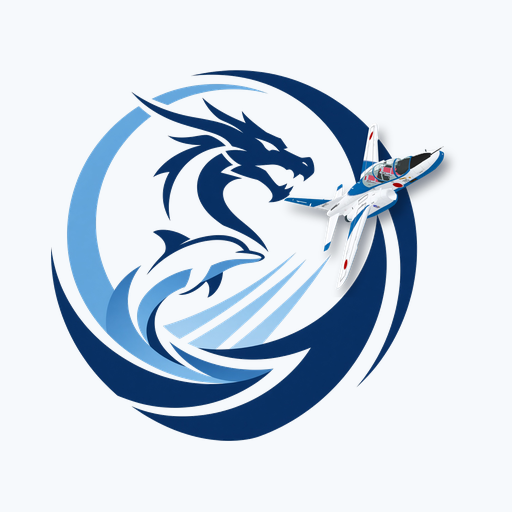
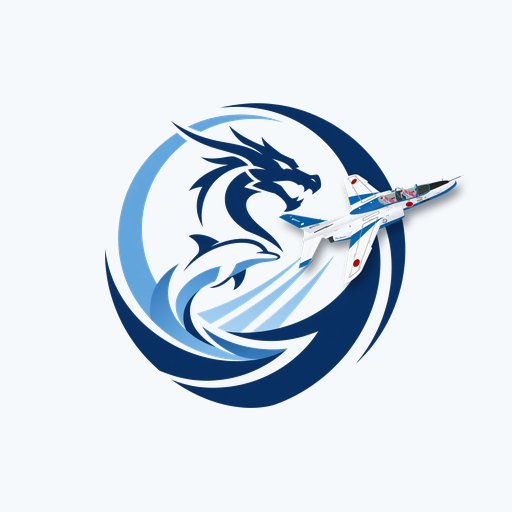
画面下に版と著作権の固定表示、メニューにお知らせ（新着で赤い点）と購入の復元、アプリアイコンの紋章を中央にそろえ直し

Changed region(s): [[0.0938, 0.125, 0.9062, 0.875]]

diff --git a/index.html b/index.html
@@ -75,7 +75,7 @@ svg text{user-select:none}
 .updbtn.has::after{content:"";position:absolute;top:.5rem;right:.5rem;width:.5rem;height:.5rem;border-radius:50%;background:var(--bad);box-shadow:0 0 0 .125rem var(--bg)}
 .updbtn.busy .ic{animation:spin 1s linear infinite}
 @keyframes spin{to{transform:rotate(360deg)}}
-.toast{position:fixed;left:50%;bottom:max(1.25rem,env(safe-area-inset-bottom));transform:translateX(-50%);background:var(--panel2);color:var(--text);border:1px solid var(--line2);border-radius:.75rem;padding:.625rem 1rem;font-size:.8125rem;font-weight:700;box-shadow:0 .5rem 1.5rem rgba(0,0,0,.4);z-index:40;white-space:nowrap}
+.toast{position:fixed;left:50%;bottom:calc(max(1.25rem,env(safe-area-inset-bottom)) + 1.25rem);transform:translateX(-50%);background:var(--panel2);color:var(--text);border:1px solid var(--line2);border-radius:.75rem;padding:.625rem 1rem;font-size:.8125rem;font-weight:700;box-shadow:0 .5rem 1.5rem rgba(0,0,0,.4);z-index:40;white-space:nowrap}
 .menu{position:relative;flex:none}
 .menubtn{width:2.75rem;height:2.75rem;display:flex;align-items:center;justify-content:center;border-radius:.625rem;color:var(--accent)}
 @media (hover:hover){.menubtn:hover{background:var(--panel)}}
@@ -83,6 +83,23 @@ svg text{user-select:none}
 .menulist{position:absolute;right:0;top:3rem;min-width:11rem;background:var(--panel2);border:1px solid var(--line2);border-radius:.75rem;padding:.375rem;box-shadow:0 1rem 2rem rgba(0,0,0,.5);z-index:20;display:flex;flex-direction:column}
 .menulist button{text-align:left;padding:.75rem .875rem;border-radius:.5rem;font-size:.875rem;font-weight:700}
 .menulist button:hover{background:var(--panel)}
+.menulist button{display:flex;align-items:center;gap:.5rem}
+.menulist .dot{width:.5rem;height:.5rem;border-radius:50%;background:var(--bad);flex:none}
+.menubtn.has{position:relative}
+.menubtn.has::after{content:"";position:absolute;top:.5rem;right:.5rem;width:.5rem;height:.5rem;border-radius:50%;background:var(--bad);box-shadow:0 0 0 .125rem var(--bg)}
+/* 画面下の固定表示: 左に版、右に著作権 */
+.foot{position:fixed;left:0;right:0;bottom:0;display:flex;justify-content:space-between;align-items:center;gap:1rem;
+  padding:.25rem 1rem calc(.25rem + env(safe-area-inset-bottom));font-family:var(--mono);font-size:.625rem;letter-spacing:.04em;color:var(--faint);
+  background:linear-gradient(180deg,transparent,var(--bg) 45%);pointer-events:none;z-index:15}
+/* お知らせ */
+.news{display:flex;flex-direction:column;gap:.75rem;margin-top:.75rem}
+.news .it{border:1px solid var(--line);border-radius:.75rem;padding:.75rem .875rem;background:var(--panel2)}
+.news .hd{display:flex;align-items:center;gap:.5rem;flex-wrap:wrap}
+.news .tag{font-family:var(--mono);font-size:.625rem;font-weight:700;border-radius:.375rem;padding:0 .375rem;border:1px solid var(--line2);color:var(--muted)}
+.news .tag.notice{color:var(--accent);border-color:var(--accent)}
+.news .dt{font-family:var(--mono);font-size:.6875rem;color:var(--faint)}
+.news .t{font-size:.875rem;font-weight:700;margin-top:.25rem}
+.news .b{font-size:.8125rem;line-height:1.7;color:var(--muted);margin-top:.25rem}
 .sub{display:none;font-size:.75rem;color:var(--muted);margin-top:.25rem}
 @media (display-mode:standalone){.sub{display:block}}
 .stats{display:grid;grid-template-columns:repeat(5,1fr);gap:.375rem;margin-top:.625rem}
@@ -344,7 +361,7 @@ body[data-scene="night"]{--d14bg:#1b2434;--ck-sky:#0a1330;--ck-earth:#1e1812;--c
 .h3row{display:flex;justify-content:space-between;align-items:center}
 
 /* インストール案内 */
-.install{display:none;position:fixed;left:1rem;right:1rem;bottom:max(.75rem,env(safe-area-inset-bottom));background:var(--panel2);border:1px solid var(--line2);border-radius:1rem;padding:.875rem 1rem;
+.install{display:none;position:fixed;left:1rem;right:1rem;bottom:calc(max(.75rem,env(safe-area-inset-bottom)) + 1.25rem);background:var(--panel2);border:1px solid var(--line2);border-radius:1rem;padding:.875rem 1rem;
   grid-template-columns:2.5rem 1fr auto;gap:.75rem;align-items:center;box-shadow:0 1rem 2rem rgba(0,0,0,.5);z-index:10;max-width:40rem;margin:0 auto}
 .install.show{display:grid}
 .install img{width:2.5rem;height:2.5rem;border-radius:.625rem;display:block}
@@ -447,7 +464,7 @@ body:not([data-view="train"]) .stats{display:none}
 /* ===== スマホ幅: ホームと訓練画面を 1 画面に収める =====
    画面全体を縦の flex にし、図（機体画像・上面図・視界）だけを伸縮させる。極端に低い画面では図の最小高さを優先して少しだけスクロールする */
 @media (max-width:63.99rem){
-  body[data-view="home"],body[data-view="train"]{height:100vh;height:100dvh;display:flex;flex-direction:column;padding-bottom:max(.5rem,env(safe-area-inset-bottom))}
+  body[data-view="home"],body[data-view="train"]{height:100vh;height:100dvh;display:flex;flex-direction:column;padding-bottom:calc(max(.5rem,env(safe-area-inset-bottom)) + 1rem)}
   body[data-view="home"] .app,body[data-view="train"] .app{flex:1;min-height:0;display:flex;flex-direction:column;width:100%}
   #view-home:not([hidden]),#view-train:not([hidden]){flex:1;min-height:0;display:flex;flex-direction:column}
   /* ホーム: 機体の絵だけ縮む */
@@ -601,8 +618,10 @@ body:not([data-view="train"]) .stats{display:none}
         <div class="menu">
           <button class="menubtn" id="menuBtn" aria-haspopup="true" aria-expanded="false" aria-label="メニュー"><svg viewBox="0 0 24 24" class="ic"><path d="M4 7h16M4 12h16M4 17h16"/></svg></button>
           <div class="menulist" id="menuList" hidden>
+            <button data-go="news">お知らせ<span class="dot" id="newsDot" hidden></span></button>
             <button data-go="settings">設定</button>
             <button data-go="about">アプリの説明</button>
+            <button data-act="restore">購入を復元</button>
             <button data-go="buy">全機能版について</button>
           </div>
         </div>
@@ -676,6 +695,10 @@ body:not([data-view="train"]) .stats{display:none}
     </div>
   </section>
 
+  <section id="view-news" hidden>
+    <div class="about"><div class="card" id="newsPage"></div></div>
+  </section>
+
   <section id="view-buy" hidden>
     <div class="about"><div class="card" id="buyPage"></div></div>
   </section>
@@ -725,6 +748,7 @@ body:not([data-view="train"]) .stats{display:none}
   </div>
 </div>
 
+<footer class="foot"><span id="footVer"></span><span>© 2026 AMATERAS</span></footer>
 <div class="toast" id="toast" hidden></div>
 <div class="install" id="install">
   <img src="icons/icon-192.png" alt="">
@@ -764,7 +788,7 @@ const PLAY_URL='https://play.google.com/store/apps/details?id=com.amaterasuvocab
 const DEMO={modes:['heading'],qCount:10};
 /* DEMO_ON: Web 版を体験版にする切り替え。有償配信（Google Play / App Store）が始まるまでは false のままにし、全員が全機能を使える */
 const DEMO_ON=false;
-const APP_VER='v63';   // 表示用の版。sw.js の CACHE と合わせる
+const APP_VER='v64';   // 表示用の版。sw.js の CACHE と合わせる
 let edition=DEMO_ON?store.get('edition','demo'):'full';
 const isFull=()=>edition==='full';
 const qMax=()=>{const c=MS().qCount;return isFull()?c:(c>0?Math.min(c,DEMO.qCount):DEMO.qCount)};   // 体験版は 10 問まで
@@ -1180,9 +1204,46 @@ function renderHome(){
   $('#modeCards').querySelectorAll('[data-mode]').forEach(b=>b.addEventListener('click',()=>{location.hash=lock(b.dataset.mode)?'#buy':'#train/'+b.dataset.mode}));
   $('#modeCards').querySelectorAll('[data-go2]').forEach(b=>b.addEventListener('click',()=>{location.hash='#'+b.dataset.go2}));
 }
+/* お知らせ: news.json（利用者が送るお知らせと、版ごとの更新情報）。新しいお知らせが届いたらメニューボタンに赤い点を出し、メニューを開いたら消す */
+let newsItems=null,latestNotice=null;
+async function loadNews(){
+  if(newsItems)return newsItems;
+  const get=async o=>{const r=await fetch('news.json',o);if(!r.ok)throw 0;return r.json()};
+  let d=null;
+  try{d=await get({cache:'no-store'})}catch(e){try{d=await get({})}catch(e2){d=null}}
+  const list=(d&&Array.isArray(d.items)?d.items:[]).slice().sort((a,b)=>String(b.date).localeCompare(String(a.date))||String(b.id).localeCompare(String(a.id)));
+  if(d)newsItems=list;   // 読めなかったときは覚えない（次に開いたときにもう一度試す）
+  return list;
+}
+async function checkNews(){
+  const items=await loadNews();const n=items.find(i=>i.type==='notice');if(!n)return;
+  latestNotice=n.id;
+  if(store.get('newsSeen')!==n.id){menuBtn.classList.add('has');$('#newsDot').hidden=false}
+}
+function markNewsSeen(){if(latestNotice)store.set('newsSeen',latestNotice);menuBtn.classList.remove('has');$('#newsDot').hidden=true}
+async function renderNews(){
+  const page=$('#newsPage');
+  page.innerHTML='<h3>お知らせ</h3><div class="sub2">読み込み中…</div>';
+  const items=await loadNews();
+  markNewsSeen();
+  page.innerHTML='<h3>お知らせ</h3>'+(items.length?`<div class="news">${items.map(i=>{
+    const notice=i.type==='notice';
+    return `<div class="it"><div class="hd"><span class="tag${notice?' notice':''}">${notice?'お知らせ':'更新'}</span><span class="dt">${i.date||''}</span></div>`
+      +`<div class="t">${i.title||''}</div><div class="b">${i.body||''}</div></div>`}).join('')}</div>`
+    :'<div class="sub2">お知らせはまだありません。</div>');
+}
+/* 購入の復元: 端末に残っているコードで全機能版を有効にし直す */
+async function restorePurchase(){
+  const k=store.get('key');
+  if(k){try{const h=[...new Uint8Array(await crypto.subtle.digest('SHA-256',new TextEncoder().encode(k)))].map(b=>b.toString(16).padStart(2,'0')).join('');
+    if(h===FULL_HASH){edition='full';store.set('edition','full');toast('全機能版を復元しました');if(document.body.dataset.view==='home')renderHome();return}}catch(e){}}
+  if(isFull()){toast('全機能版は有効です');return}
+  toast('購入したコードを入力してください');location.hash='#buy';
+}
 const menuBtn=$('#menuBtn'),menuList=$('#menuList');
 function closeMenu(){menuList.hidden=true;menuBtn.setAttribute('aria-expanded','false')}
-menuBtn.addEventListener('click',e=>{e.stopPropagation();menuList.hidden=!menuList.hidden;menuBtn.setAttribute('aria-expanded',String(!menuList.hidden))});
+menuBtn.addEventListener('click',e=>{e.stopPropagation();menuList.hidden=!menuList.hidden;menuBtn.setAttribute('aria-expanded',String(!menuList.hidden));if(!menuList.hidden)markNewsSeen()});
+menuList.querySelectorAll('[data-act="restore"]').forEach(b=>b.addEventListener('click',()=>{closeMenu();restorePurchase()}));
 menuList.querySelectorAll('[data-go]').forEach(b=>b.addEventListener('click',()=>{closeMenu();if(!confirmLeave())return;leaveSession();location.hash='#'+b.dataset.go}));
 document.addEventListener('click',e=>{if(!menuList.hidden&&!e.target.closest('.menu'))closeMenu()});
 let viewer=null,viewerLoading=false;
@@ -1210,7 +1271,7 @@ async function initAbout(){
     $('#camReset').addEventListener('click',()=>viewer.resetCamera());
   }catch(e){load.textContent='3D モデルを読み込めませんでした（通信環境を確認してください）';viewerLoading=false}
 }
-const VIEWS=['home','train','settings','about','buy'];
+const VIEWS=['home','train','settings','about','news','buy'];
 function show(v){document.body.dataset.view=v;VIEWS.forEach(x=>{$('#view-'+x).hidden=x!==v});window.scrollTo({top:0})}
 let currentHash='';
 function route(){
@@ -1230,6 +1291,7 @@ function route(){
   else if(v==='train')enterMode(E.MODES[arg]?arg:'heading',sub);
   else if(v==='settings')renderSettingsPage();
   else if(v==='buy')renderBuy();
+  else if(v==='news')renderNews();
   else{renderAbout();$('#edLine').textContent=isFull()?'この端末では全機能版が有効です。':`この Web 版は体験版です（方位のみ・1 回 ${DEMO.qCount} 問まで）。全機能は Google Play 版で使えます。`;initAbout();
     if(scrollTarget){const el=$(scrollTarget);scrollTarget=null;if(el)requestAnimationFrame(()=>el.scrollIntoView({block:'center'}))}}
   menuList.querySelector('[data-go="buy"]').hidden=isFull();
@@ -1265,7 +1327,7 @@ function renderBuy(){
       else $('#buyMsg').textContent='コードが違います。'}catch(e){$('#buyMsg').textContent='この環境では確認できません（https で開いてください）。'}});
 }
 window.addEventListener('hashchange',route);
-checkKey().finally(route);
+checkKey().finally(()=>{route();$('#footVer').textContent=APP_VER;checkNews()});
 
 /* PWA と更新ボタン。新しい sw.js はインストールできしだい有効になる（待機させると、更新ボタンのない古い版の端末が移れない）。
    ただしページは勝手に読み込み直さない: 新しい版が有効になったら更新ボタンに赤い点を出し、押されたら読み込み直す。

diff --git a/sw.js b/sw.js
@@ -1,6 +1,6 @@
 /* オフライン対応サービスワーカー。ファイルを更新したら CACHE の版数を上げる。 */
-const CACHE = 'aat-v63';
-const ASSETS = ['./', './index.html', './engine.js?v=32', './viewer.js?v=3', './sim3d.js?v=10', './manifest.webmanifest', './privacy.html',
+const CACHE = 'aat-v64';
+const ASSETS = ['./', './index.html', './engine.js?v=32', './viewer.js?v=3', './sim3d.js?v=10', './manifest.webmanifest', './privacy.html', './news.json',
   './icons/icon-192.png', './icons/icon-512.png', './icons/apple-touch-icon.png', './icons/favicon-64.png', './img/t4-top.webp', './img/hero.webp',
   ...['north', 'south', 'east', 'west', 'up', 'down', 'ne_up', 'nw_up', 'se_up', 'sw_up', 'ne_down', 'nw_down', 'se_down', 'sw_down'].map(n => `./img/bi-${n}.webp`),
   /* バンク付き（真上・真下を除く 12 方向 × 左右 × 30/60） */
@@ -19,7 +19,12 @@ self.addEventListener('activate', e => {
 });
 self.addEventListener('fetch', e => {
   if (e.request.method !== 'GET') return;
-  const sameOrigin = new URL(e.request.url).origin === location.origin;
+  const url = new URL(e.request.url), sameOrigin = url.origin === location.origin;
+  /* お知らせは版を上げずに差し替えるので、通信を先に試してキャッシュを更新する（つながらないときは前回の内容） */
+  if (sameOrigin && url.pathname.endsWith('/news.json')) {
+    e.respondWith(fetch(e.request).then(res => { const copy = res.clone(); caches.open(CACHE).then(c => c.put(e.request, copy)); return res; }).catch(() => caches.match(e.request)));
+    return;
+  }
   e.respondWith(
     caches.match(e.request).then(hit => hit || fetch(e.request).then(res => {
       /* 同一オリジン（3D モデル含む）、Google Fonts、three.js の CDN は取得後にキャッシュしてオフラインでも使えるようにする */

diff --git a/dev/docs/internal-design.md b/dev/docs/internal-design.md
@@ -389,3 +389,12 @@ stats[mode] = { n, c, t }   // 出題数, 正解数, 合計秒
 - `sw.js` の install で `skipWaiting()` に戻した。待機させる方式だと、更新ボタンが入る前の版が動いている端末は、ページに更新ボタンがないため自分では新しい版に移れず、そのサイトのタブを全部閉じるまで古いままだった（実機で発生）。
 - 代わりに、勝手な再読み込みはページ側で止める。`controllerchange` を受けたら更新ボタンに赤い点を出し、出題・練習・シミュレーター中でなければその場で読み込み直す。出題中は読み込み直さず、更新ボタンを押したときに読み込み直す。
 - 更新ボタンは、待機中の版があれば `SKIP_WAITING`、すでに有効化済みなら読み込み直すだけ、どちらでもなければ `reg.update()` で確認する。
+
+## 画面下の固定表示・お知らせ・購入の復元（2026-09-03）
+
+- 画面下に固定の帯（`.foot`）。左に版（`APP_VER`）、右に `© 2026 AMATERAS`。指は通す（`pointer-events:none`）。下端の吹き出し（インストール案内・トースト）と 1 画面レイアウトの下余白はこのぶんだけ上げる。
+- メニューに「お知らせ」と「購入を復元」を追加。並びは お知らせ／設定／アプリの説明／購入を復元／全機能版について。
+- お知らせは `news.json`（`{items:[{id,date,type:'notice'|'update',title,body}]}`）。`type:'update'` は版ごとの更新情報で、**push のたびに 1 件足す**。`type:'notice'` は利用者が送るお知らせ。日付の新しい順に並べて表示する。
+- 新しい「お知らせ」（`notice`）が届くとメニューボタンに赤い点が出る。メニューを開くと消える（`aat.newsSeen` に最新の notice の id を保存）。更新情報では赤い点を出さない。
+- `news.json` は版を上げずに差し替えるので、sw.js では通信を先に試してキャッシュを更新する（つながらないときは前回の内容）。
+- 「購入を復元」: 端末に残っているコード（`aat.key`）の SHA-256 を照合して全機能版に戻す。コードがなければ全機能版の案内画面へ送る。体験版運用（`DEMO_ON=true`）にしたときに効く。
